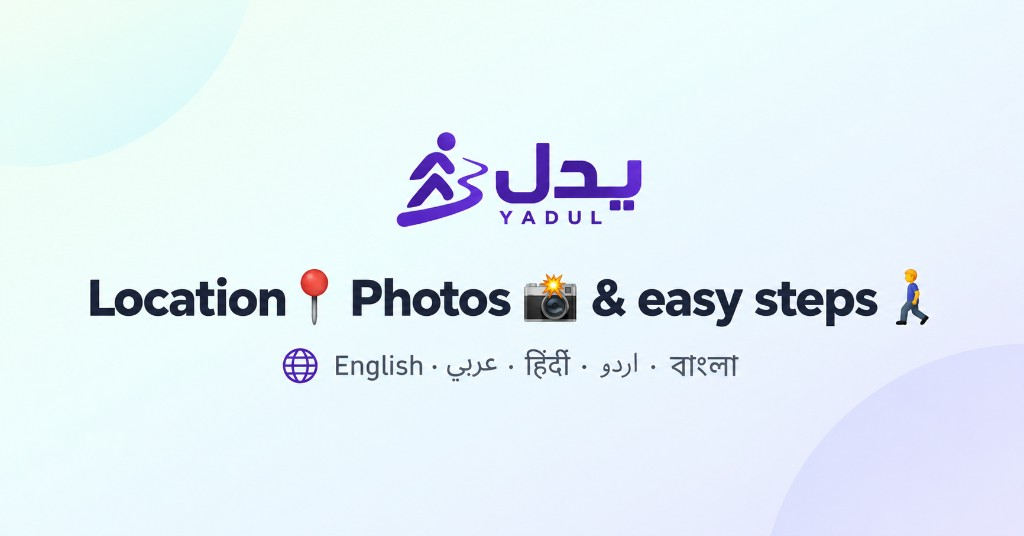
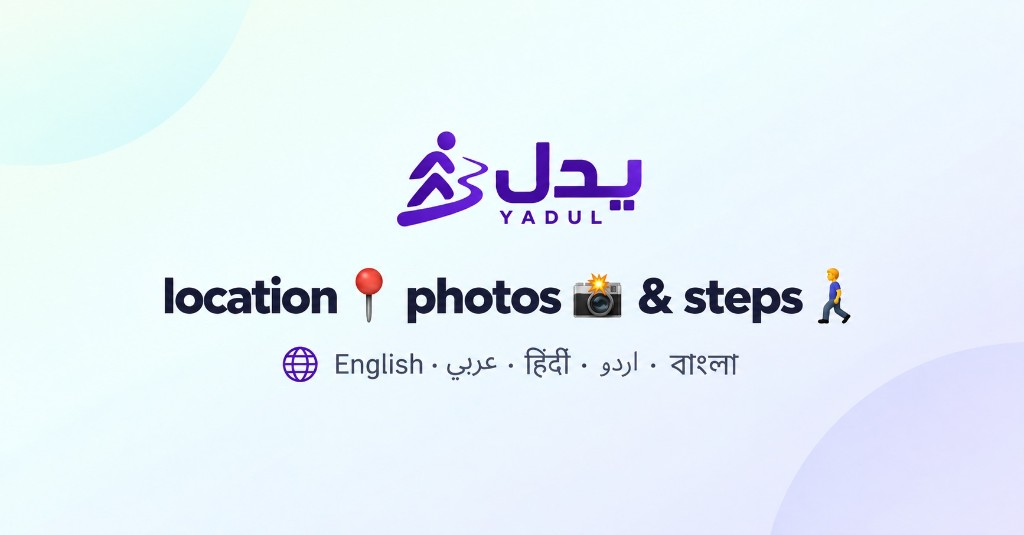
fix: courier layout change + og image + whatsapp text change

diff --git a/apps/courier-app/src/components/AddressDetailsSection.vue b/apps/courier-app/src/components/AddressDetailsSection.vue
@@ -208,8 +208,8 @@ onMounted(() => {
           <span class="address-card-label">{{ t('addressDetailsLabel') }}</span>
           <div class="address-lines">
             <div v-for="(line, i) in addressDetailLines" :key="i" class="address-line">
-              <span class="address-line-label">{{ line.label }}</span>
               <span class="address-line-value">{{ line.value }}</span>
+              <span class="address-line-label">{{ line.label }}</span>
             </div>
           </div>
         </div>
@@ -417,29 +417,33 @@ onMounted(() => {
 
 .address-line {
   display: flex;
-  flex-direction: row;
+  flex-direction: column;
   align-items: center;
-  justify-content: space-between;
-  gap: 12px;
-  padding: 10px 0;
+  justify-content: center;
+  gap: 4px;
+  padding: 12px 0;
   border-bottom: 1px solid var(--color-border);
 }
 
-.address-line-label {
-  flex: 1;
-  min-width: 0;
-  font-size: clamp(15px, 3dvh, 17px);
-  font-weight: 600;
-  color: var(--color-text-muted);
+.address-line:last-child {
+  border-bottom: none;
+  padding-bottom: 4px;
 }
 
 .address-line-value {
-  flex-shrink: 0;
-  font-size: clamp(15px, 2.8dvh, 17px);
-  font-weight: 600;
+  font-size: clamp(20px, 4dvh, 26px);
+  font-weight: 700;
   color: var(--color-text);
-  text-align: end;
+  text-align: center;
   word-break: break-word;
+  line-height: 1.2;
+}
+
+.address-line-label {
+  font-size: clamp(12px, 2dvh, 14px);
+  font-weight: 600;
+  color: var(--color-text-muted);
+  text-align: center;
 }
 
 .no-metadata {

diff --git a/apps/courier-app/index.html b/apps/courier-app/index.html
@@ -10,8 +10,8 @@
     <meta name="description" content="Follow the photo guide to find the delivery location" />
 
     <!-- Open Graph / WhatsApp link preview -->
-    <meta property="og:title" content="Location Photos & Easy Steps" />
-    <meta property="og:description" content="Click the link to view location photos & easy steps" />
+    <meta property="og:title" content="Location Photos & Steps" />
+    <meta property="og:description" content="Click below for location photos and steps" />
     <meta property="og:image" content="https://guided-navigation-app-courier.netlify.app/og-share.jpg" />
     <meta property="og:image:width" content="1200" />
     <meta property="og:image:height" content="630" />
